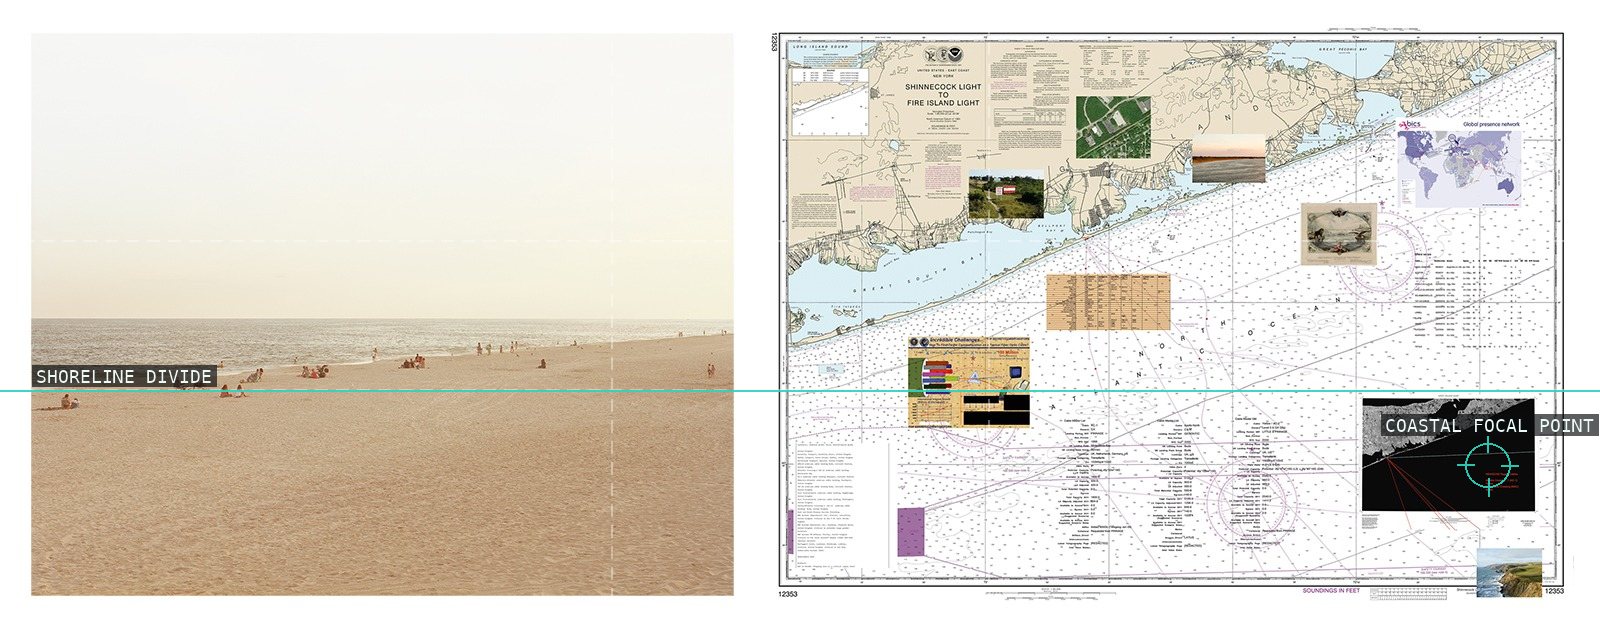
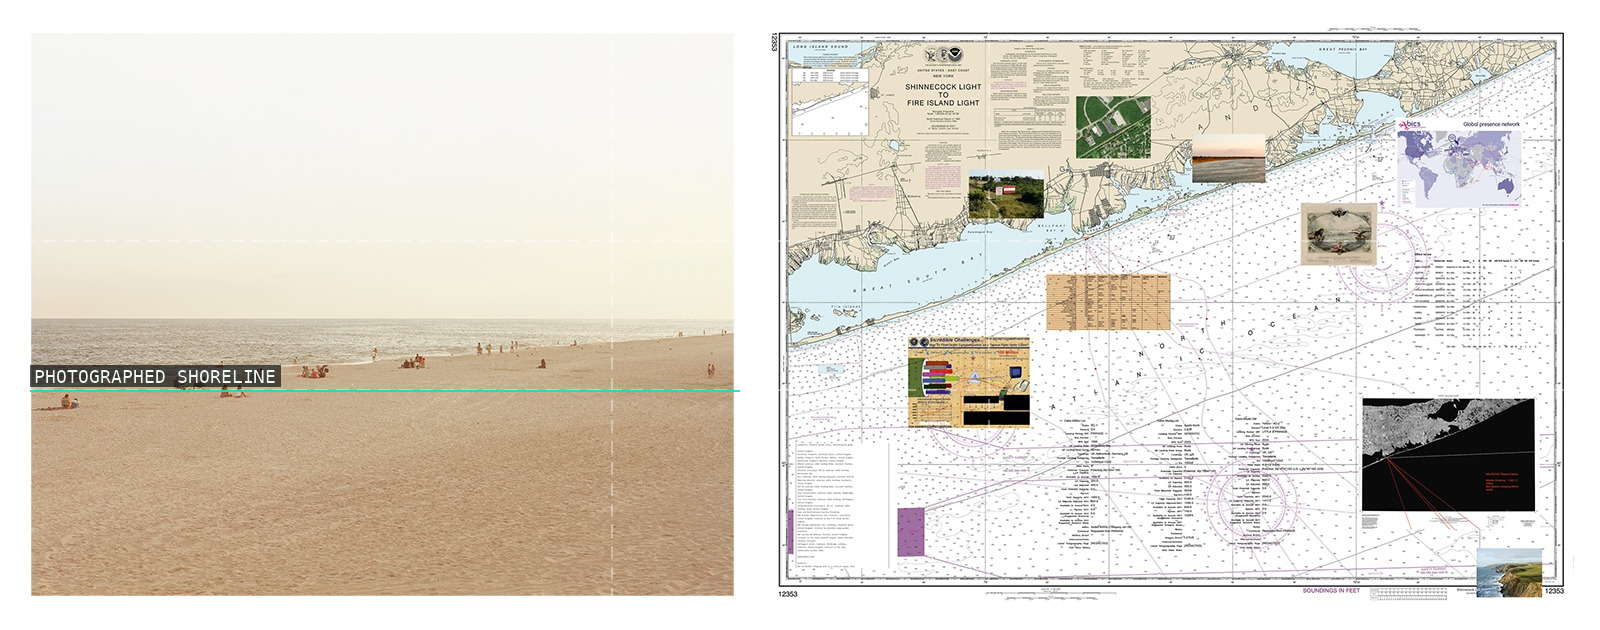
resolve critique: trevor-paglen

Changed region(s): [[0.4688, 0.6032, 1.0, 0.7238], [0.0, 0.573, 0.1875, 0.6333], [0.9062, 0.754, 0.9375, 0.7841]]

diff --git a/content/trevor-paglen/critique.md b/content/trevor-paglen/critique.md
@@ -1,4 +1,4 @@
-verdict: revise
+verdict: resolved
 
 ## Critique round — 2026-07-26
 
@@ -37,3 +37,10 @@ Re-verified critique history: the 2026-07-26 round is the only prior round in `g
 - **01-stss-carson-city** and **04-reaper-drone** use fewer than the usual 3–5 primitives, but the current claims remain legible. The latter’s `DUSK HORIZON` was retained after the previous round; its proof and spec are unchanged, so this review does not reopen that settled point.
 - **03-national-security-agencies** retains the previously noted loose `symmetry_axis` schema fit for `TRIPTYCH CENTER`; it remains advisory and unchanged.
 - **11-last-pictures-narbona-predator** — `UPPER IMAGE SIGNAL` is weakly located at the top edge, but it still points to visible instrumental text and is not material enough to block.
+
+## Resolution — 2026-07-26
+
+1. **02-nsa-tapped-mastic-beach:** replaced the full-frame `SHORELINE DIVIDE` horizon claim and the misleading chart anchor with a `PHOTOGRAPHED SHORELINE` polyline constrained to x0.019–0.462 in the beach panel. The proof is visually clean, scores 100/100, and the caption and paragraph now state that the line does not continue through the map.
+2. **EchoStar XVI process:** corrected `sources.md` and `research.md` to record the Rollins collection entry's C-prints designation.
+
+Re-verified critique history: the original 2026-07-26 revision and its first resolution, plus the current 2026-07-26 revision. The earlier required fixes remain intact: the Reaper and Cosmos overlays have no unsupported symmetry axes; Keawaula confines its shoreline to the coast photograph; EchoStar XVI retains only its physical vertical divide and launch anchor, with no false horizontal seam or convergence; and the EXIF wording continues to distinguish downloaded-file metadata from original capture settings. All 11 overlay specs score 100/100, the affected proofs pass visual inspection, `chapter.mdx` and `src/chapters/trevor-paglen.mdx` are byte-identical, and `scripts/check.sh` passes.

diff --git a/content/trevor-paglen/sources.md b/content/trevor-paglen/sources.md
@@ -63,7 +63,7 @@ This set follows Paglen's photographic strategies for making hidden surveillance
 ### 10 — *The Last Pictures/EchoStar XVI Launch and Preliminary Orbit* (2012)
 - **Why it matters:** The paired view converts a launch and orbital trace into a compact before-and-after sequence; the horizontal composition asks the eye to connect technological event, trajectory, and future duration.
 - **Source:** https://blogs.rollins.edu/rma/2026/03/19/works-by-trevor-paglen/ (Rollins Museum of Art collection article; public display rendition: https://blogs.rollins.edu/rma/wp-content/uploads/2026/03/Paglen-2013.34.81-Medium.jpeg)
-- **Rights / fair-use assessment:** Trevor Paglen; © Trevor Paglen; Alfond Collection/Rollins Museum of Art credit. **Factor 1:** transformative criticism studies the diptych's sequential composition and technological narrative. **Factor 2:** a creative contemporary work; the supplied record does not specify a printing process. **Factor 3:** the complete paired frame is necessary to retain the launch/orbit relation. **Factor 4:** this credited 640 × 283px public display copy links to Rollins and cannot substitute for prints or licensed reproductions.
+- **Rights / fair-use assessment:** Trevor Paglen; © Trevor Paglen; Alfond Collection/Rollins Museum of Art credit. **Factor 1:** transformative criticism studies the diptych's sequential composition and technological narrative. **Factor 2:** a creative contemporary work documented by the Rollins record as C-prints. **Factor 3:** the complete paired frame is necessary to retain the launch/orbit relation. **Factor 4:** this credited 640 × 283px public display copy links to Rollins and cannot substitute for prints or licensed reproductions.
 - **File:** `raw/trevor-paglen/10-last-pictures-echostar-xvi.jpg` (640 × 283px)
 
 ### 11 — *The Last Pictures (The Narbona Panel / Humans Seen Through a Predator Drone)* (2012)

diff --git a/content/trevor-paglen/research.md b/content/trevor-paglen/research.md
@@ -10,9 +10,9 @@ dye-sublimation print for *"Fanon" (Even the Dead Are Not Safe) Eigenface*;
 a chromogenic print for *ONYX V/HYBRID and Other Spacecraft from Glacier
 Point*; and a gelatin-silver print for *The Last Pictures (The Narbona Panel /
 Humans Seen Through a Predator Drone)*. The Mastic Beach and Keawaula works
-are also documented as mixed-media works incorporating a C-print. The supplied
-record for *The Last Pictures/EchoStar XVI Launch and Preliminary Orbit* does
-not specify a printing process.
+are also documented as mixed-media works incorporating a C-print. The Rollins
+record documents *The Last Pictures/EchoStar XVI Launch and Preliminary Orbit*
+as C-prints.
 
 SAAM describes Paglen's project as making usually hidden surveillance
 infrastructure visible through distant views of military installations,
